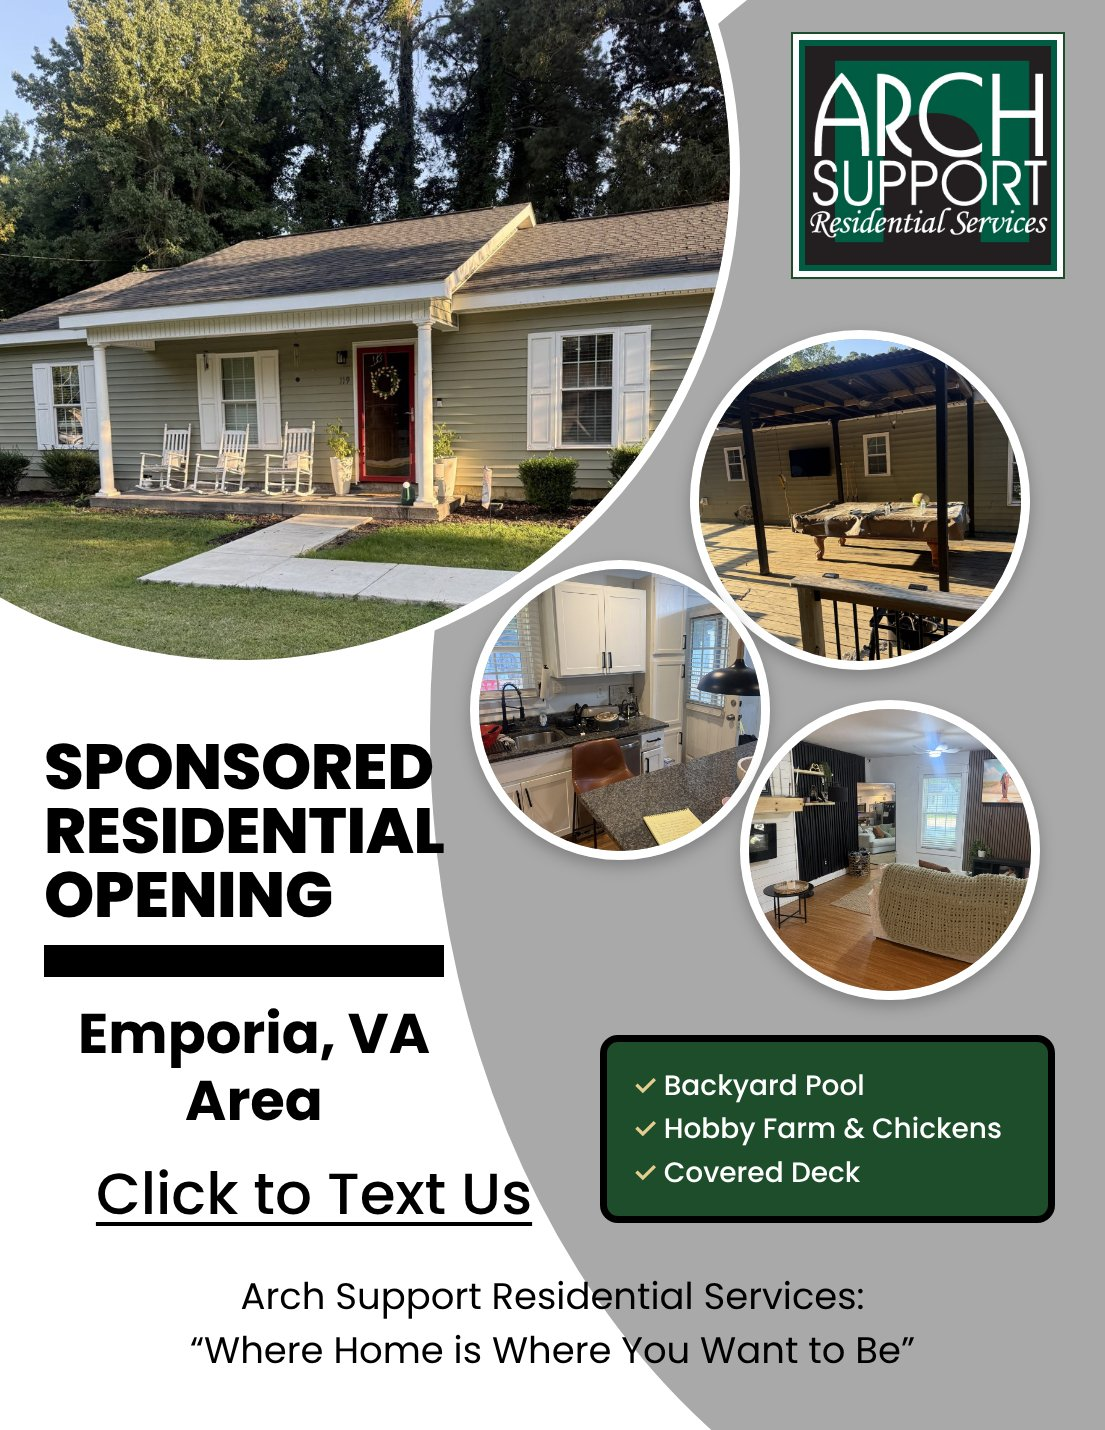
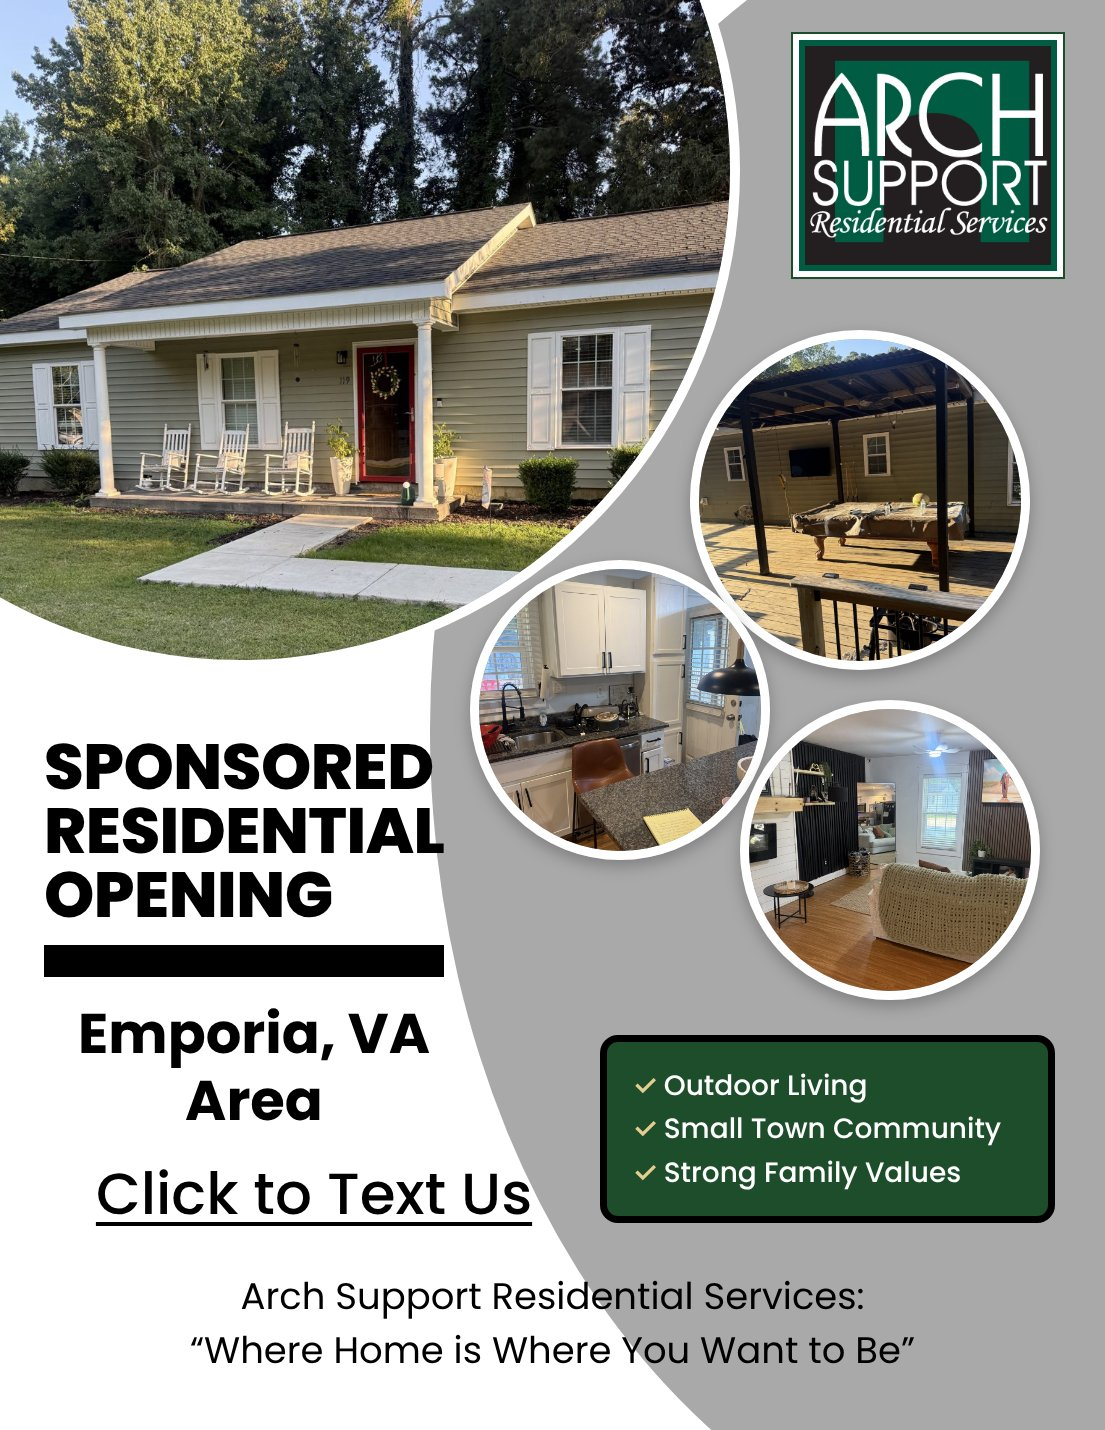
Reigel: new flyer highlights, remove About section for flyer-only page
Claude-Session: https://claude.ai/code/session_01E21kTYWiyFhe1Hnu7MKUJk

Changed region(s): [[0.5846, 0.7385, 0.9231, 0.8308]]

diff --git a/vagrouphomes/vacancy/reigel/index.html b/vagrouphomes/vacancy/reigel/index.html
@@ -22,10 +22,6 @@
   .row { display: grid; grid-template-columns: 1fr 1fr; gap: 12px; }
   .note { text-align: center; color: var(--muted); font-size: .95rem; margin: 0 0 16px; }
   img { width: 100%; height: auto; display: block; border-radius: 12px; box-shadow: 0 2px 10px rgba(0,0,0,.12); }
-  .about { background: #fff; border-radius: 12px; padding: 16px 18px; margin-top: 16px; box-shadow: 0 2px 10px rgba(0,0,0,.08); line-height: 1.5; }
-  .about h2 { margin: 0 0 6px; font-size: 1.15rem; color: var(--green); }
-  .about p { margin: 0 0 8px; }
-  .about ul { margin: 0; padding-left: 20px; }
   footer { text-align: center; color: var(--muted); font-size: .9rem; margin-top: 20px; }
   footer a { color: var(--green); }
 </style>
@@ -46,17 +42,7 @@
     </div>
   </div>
   <p class="note">Text or email opens with a note already written — just hit send.<br>Call or text: (804) 399-9709 · archera@archsupportres.com</p>
-  <a href="sms:+18043999709?&amp;body=Hey%2C%20I%27m%20interested%20in%20learning%20more%20about%20your%20Reigel%20Sponsored%20Residential%20opening%20in%20Emporia"><img src="flyer.jpg" alt="Sponsored Residential Opening, Emporia, VA Area. Backyard pool, hobby farm and chickens, covered deck. Arch Support Residential Services." width="1105" height="1430"></a>
-  <section class="about">
-    <h2>About this home</h2>
-    <p>A quiet, safe, and highly accessible home in Emporia built around outdoor living, family connection, and small-town community. We follow a person-centered approach, working with each individual and their family to help build the life they want.</p>
-    <ul>
-      <li>Backyard pool and covered deck with a pool table</li>
-      <li>Hobby farm with chickens for fresh eggs, plus room to garden</li>
-      <li>Cookouts, movie nights, and yard games</li>
-      <li>Nearby movies, bowling, festivals, fishing, and parks</li>
-    </ul>
-  </section>
+  <a href="sms:+18043999709?&amp;body=Hey%2C%20I%27m%20interested%20in%20learning%20more%20about%20your%20Reigel%20Sponsored%20Residential%20opening%20in%20Emporia"><img src="flyer.jpg" alt="Sponsored Residential Opening, Emporia, VA Area. Outdoor living, small town community, strong family values. Arch Support Residential Services." width="1105" height="1430"></a>
   <footer>
     <p>Arch Support Residential Services<br>“Where Home is Where You Want to Be”</p>
     <p><a href="/vacancy">See all vacancies</a></p>

diff --git a/flyers/source/reigel-flyer.html b/flyers/source/reigel-flyer.html
@@ -34,6 +34,6 @@ body{width:1105px;height:1430px;overflow:hidden;font-family:P;background:#fff;po
 <div class="bar"></div>
 <div class="place">Emporia, VA<br>Area</div>
 <div class="cta">Click to Text Us</div>
-<div class="box"><div>Backyard Pool</div><div>Hobby Farm &amp; Chickens</div><div>Covered Deck</div></div>
+<div class="box"><div>Outdoor Living</div><div>Small Town Community</div><div>Strong Family Values</div></div>
 <div class="tag">Arch Support Residential Services:<br>“Where Home is Where You Want to Be”</div>
 </body></html>
